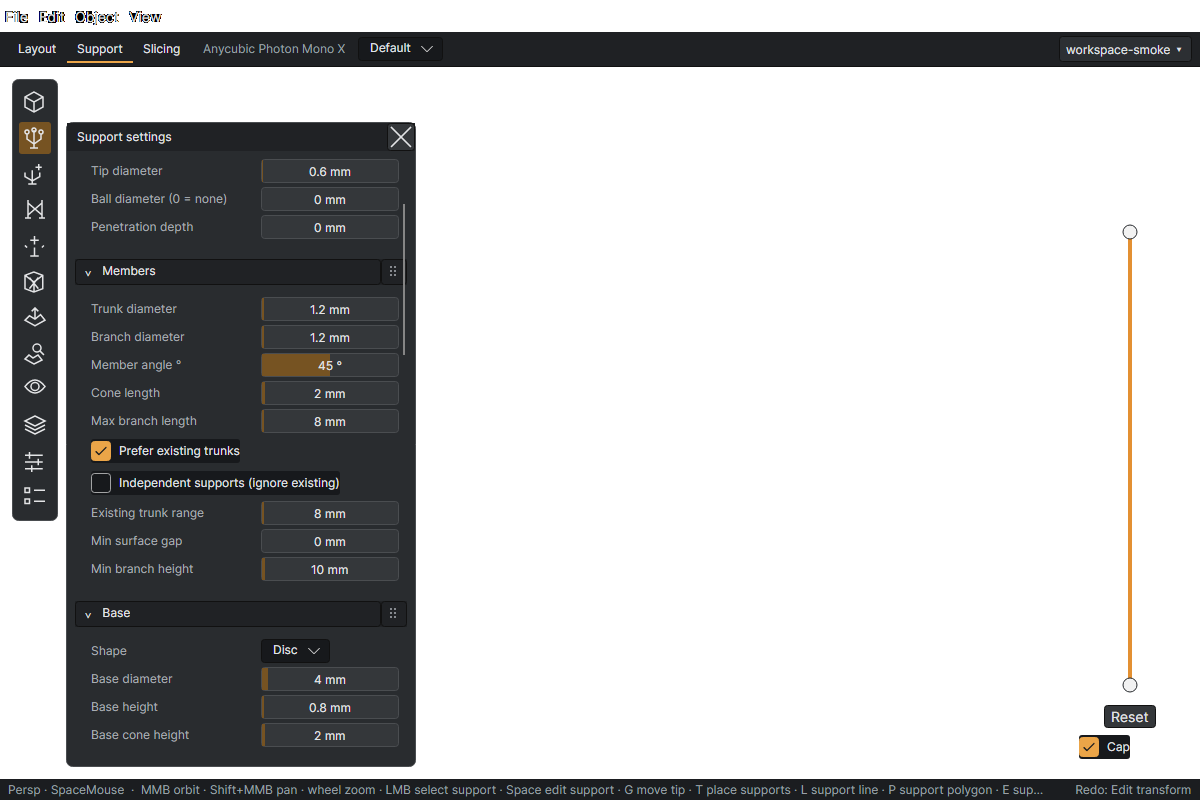
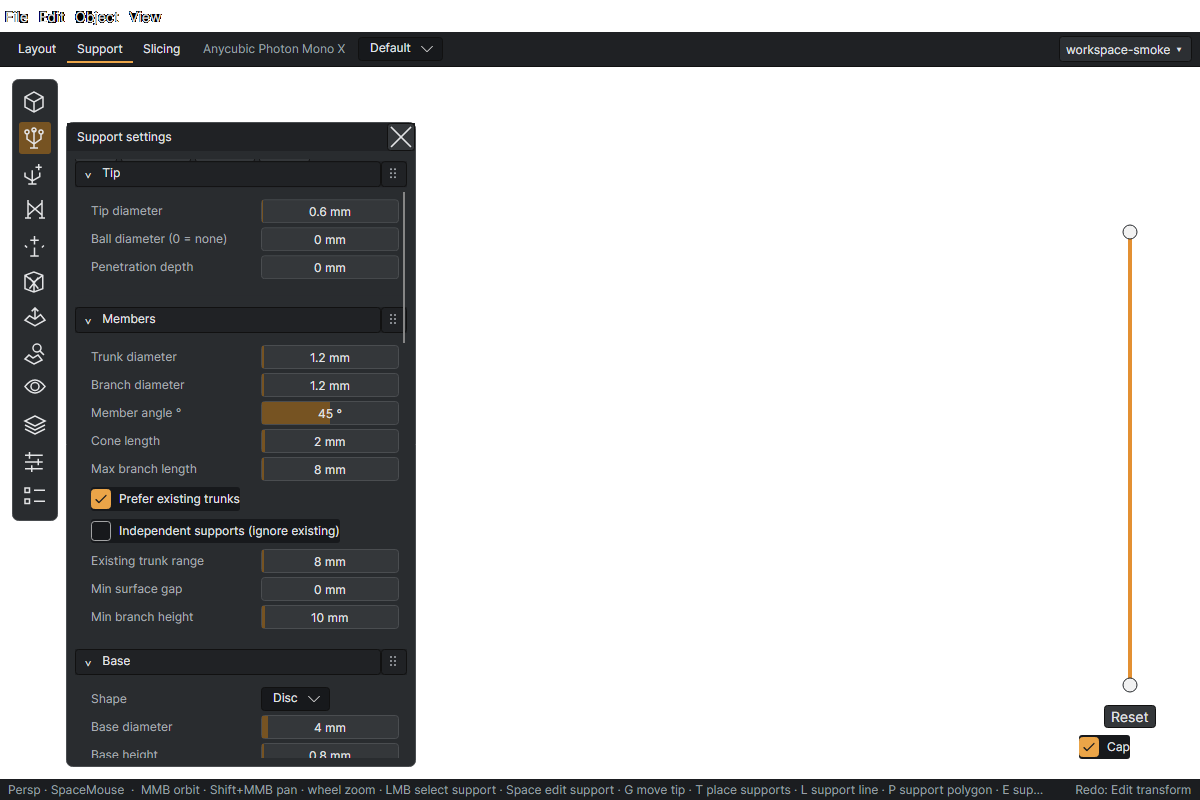
feat(ui): swap expanders immediately during drag

Changed region(s): [[0.0617, 0.1875, 0.3392, 0.9688], [0.0617, 0.1875, 0.185, 0.3438]]

diff --git a/src/Danslicer.App/Controls/Refresh/ToolShells.cs b/src/Danslicer.App/Controls/Refresh/ToolShells.cs
@@ -143,6 +143,7 @@ public sealed class ReorderableExpander : Border
     public string SectionId { get; }
     public event EventHandler? ExpansionChanged;
     public event EventHandler<int>? MoveRequested;
+    public event EventHandler? OrderCommitted;
     public bool IsExpanded
     {
         get => _expanded;
@@ -160,59 +161,92 @@ public sealed class ReorderableExpander : Border
         var grip = new Button { Content = RefreshIcons.Create("grip"), Width = 26, Height = 26, MinHeight = 0, Padding = new Thickness(4), Background = RefreshPalette.Header, Cursor = new Cursor(StandardCursorType.SizeAll) };
         AutomationProperties.SetName(grip, $"Reorder {title}"); ToolTip.SetTip(grip, "Drag to reorder; Alt+Up/Down");
         double? origin = null;
+        double originalTop = 0, lastPointerY = 0;
+        int originalIndex = -1;
         var translation = new TranslateTransform(); RenderTransform = translation;
         IPointer? dragPointer = null;
-        bool dragging = false;
+        bool dragging = false, moving = false;
         void Settle()
         {
             translation.Transitions = new Transitions { new DoubleTransition { Property = TranslateTransform.YProperty, Duration = TimeSpan.FromMilliseconds(150) } };
             translation.Y = 0; ZIndex = 0;
         }
+        void Move(int offset, double visualY)
+        {
+            if (offset == 0 || Parent is not Panel panel) return;
+            // Hosts remove/reinsert the real section. Ignore transient capture loss during reparenting.
+            moving = true;
+            try
+            {
+                MoveRequested?.Invoke(this, offset);
+                panel.UpdateLayout();
+                translation.Y = visualY - Bounds.Y;
+                grip.Focus();
+                dragPointer?.Capture(grip);
+            }
+            finally { moving = false; }
+        }
         void CancelDrag()
         {
+            var visualY = Bounds.Y + translation.Y;
+            if (dragging && Parent is Panel panel) Move(originalIndex - panel.Children.IndexOf(this), visualY);
             origin = null; dragging = false;
             var pointer = dragPointer; dragPointer = null; pointer?.Capture(null); Settle();
         }
+        void UpdateDrag(double pointerY)
+        {
+            if (origin is not { } start) return;
+            var delta = pointerY - start;
+            if (!dragging && Math.Abs(delta) < 6) return;
+            var direction = Math.Sign(pointerY - lastPointerY);
+            lastPointerY = pointerY;
+            dragging = true; ZIndex = 10;
+            var visualY = originalTop + delta;
+            translation.Y = visualY - Bounds.Y;
+            if (Parent is not Panel panel || direction == 0) return;
+            var index = panel.Children.IndexOf(this);
+            var center = visualY + Bounds.Height / 2;
+            var destination = index;
+            for (var i = index + direction; i >= 0 && i < panel.Children.Count; i += direction)
+            {
+                if (panel.Children[i] is not ReorderableExpander) break;
+                if (direction > 0 ? center <= panel.Children[i].Bounds.Center.Y : center >= panel.Children[i].Bounds.Center.Y) break;
+                destination = i;
+            }
+            Move(destination - index, visualY);
+        }
         grip.AddHandler(PointerPressedEvent, (_, e) =>
         {
-            if (!e.GetCurrentPoint(grip).Properties.IsLeftButtonPressed) return;
+            if (!e.GetCurrentPoint(grip).Properties.IsLeftButtonPressed || Parent is not Panel panel) return;
             grip.Focus(); translation.Transitions = null; translation.Y = 0;
-            origin = e.GetPosition(TopLevel.GetTopLevel(this)).Y; dragPointer = e.Pointer;
+            originalTop = Bounds.Y; originalIndex = panel.Children.IndexOf(this);
+            origin = lastPointerY = e.GetPosition(TopLevel.GetTopLevel(this)).Y; dragPointer = e.Pointer;
             e.Pointer.Capture(grip); e.Handled = true;
         }, Avalonia.Interactivity.RoutingStrategies.Tunnel);
         grip.PointerMoved += (_, e) =>
         {
-            if (origin is not { } start) return;
-            var delta = e.GetPosition(TopLevel.GetTopLevel(this)).Y - start;
-            if (!dragging && Math.Abs(delta) < 6) return;
-            dragging = true; ZIndex = 10; translation.Y = delta; e.Handled = true;
+            if (origin is null) return;
+            UpdateDrag(e.GetPosition(TopLevel.GetTopLevel(this)).Y); e.Handled = true;
         };
         grip.AddHandler(PointerReleasedEvent, (_, e) =>
         {
-            if (origin is not { } start) return;
-            var delta = e.GetPosition(TopLevel.GetTopLevel(this)).Y - start;
+            if (origin is null) return;
+            UpdateDrag(e.GetPosition(TopLevel.GetTopLevel(this)).Y);
+            var changed = dragging && Parent is Panel panel && panel.Children.IndexOf(this) != originalIndex;
             origin = null; dragPointer = null; e.Pointer.Capture(null);
-            if (dragging && Parent is Panel panel)
-            {
-                var index = panel.Children.IndexOf(this);
-                var center = Bounds.Center.Y + delta;
-                var destination = index;
-                for (var i = 0; i < panel.Children.Count; i++)
-                    if (i != index && (delta > 0 ? i > index && center > panel.Children[i].Bounds.Center.Y : i < index && center < panel.Children[i].Bounds.Center.Y))
-                        destination = delta > 0 ? Math.Max(destination, i) : Math.Min(destination, i);
-                var visualY = Bounds.Y + translation.Y;
-                if (destination != index) MoveRequested?.Invoke(this, destination - index);
-                panel.UpdateLayout(); translation.Y = visualY - Bounds.Y;
-            }
             dragging = false; Settle();
+            if (changed) OrderCommitted?.Invoke(this, EventArgs.Empty);
             e.Handled = true;
         }, Avalonia.Interactivity.RoutingStrategies.Tunnel);
-        grip.PointerCaptureLost += (_, _) => { if (origin is not null) CancelDrag(); };
+        grip.PointerCaptureLost += (_, _) => { if (!moving && origin is not null) CancelDrag(); };
         grip.KeyDown += (_, e) =>
         {
             if (e.Key == Key.Escape && origin is not null) { CancelDrag(); e.Handled = true; }
-            else if (e.KeyModifiers.HasFlag(KeyModifiers.Alt) && e.Key is Key.Up or Key.Down)
-            { MoveRequested?.Invoke(this, e.Key == Key.Up ? -1 : 1); e.Handled = true; }
+            else if (origin is null && e.KeyModifiers.HasFlag(KeyModifiers.Alt) && e.Key is Key.Up or Key.Down)
+            {
+                MoveRequested?.Invoke(this, e.Key == Key.Up ? -1 : 1);
+                OrderCommitted?.Invoke(this, EventArgs.Empty); e.Handled = true;
+            }
         };
         header.Children.Add(_disclosure); Grid.SetColumn(grip, 1); header.Children.Add(grip);
         _body = new ContentControl { Margin = new Thickness(8) };

diff --git a/src/Danslicer.App/Views/UiPreviewWindow.cs b/src/Danslicer.App/Views/UiPreviewWindow.cs
@@ -84,7 +84,7 @@ public sealed class UiPreviewWindow : Window
         locks.Children.Add(Row("Disabled", disabled));
         locks.Children.Add(Row("Long descriptive parameter label", Field(12, -100, 100)));
         var help = Section("help", "Interaction guide");
-        help.Children.Add(new TextBlock { Text = "Drag 4 px to scrub. Shift adjusts at one tenth speed. Click or Enter to type (for example 1cm + 2mm). Enter commits; Escape cancels. Invalid/out-of-range input stays in the editor until corrected or cancelled. Arrow keys step. Each committed gesture adds one undo entry.\n\nDrag the round grip to move the entire section; release over its new position. Escape cancels. Alt+Up/Down reorders with the keyboard. Drag the popout's right edge to resize it.", TextWrapping = TextWrapping.Wrap, Foreground = RefreshPalette.Muted });
+        help.Children.Add(new TextBlock { Text = "Drag 4 px to scrub. Shift adjusts at one tenth speed. Click or Enter to type (for example 1cm + 2mm). Enter commits; Escape cancels. Invalid/out-of-range input stays in the editor until corrected or cancelled. Arrow keys step. Each committed gesture adds one undo entry.\n\nDrag the round grip to move the entire section. Sections swap as you cross a neighbour; release to keep the order. Escape restores the starting order. Alt+Up/Down reorders with the keyboard. Drag the popout's right edge to resize it.", TextWrapping = TextWrapping.Wrap, Foreground = RefreshPalette.Muted });
         _popout.Body = body;
         var footer = new Border { Background = RefreshPalette.Header, Padding = new Thickness(16, 10), Child = _status };
         Grid.SetRow(footer, 2); root.Children.Add(footer); Content = root;
@@ -109,7 +109,7 @@ public sealed class UiPreviewWindow : Window
                     await Task.Delay(250);
                     using var narrow = new RenderTargetBitmap(new PixelSize((int)root.Bounds.Width, (int)root.Bounds.Height));
                     narrow.Render(root); narrow.Save(System.IO.Path.Combine(captureDirectory, "preview-narrow.png"), PngBitmapEncoderOptions.Default);
-                    File.WriteAllText(System.IO.Path.Combine(captureDirectory, "capture-ok.txt"), "Native window opened. Routed pointer and keyboard checks passed: numeric commit/cancel/lock/expression/undo, whole-section drag/reorder/cancel/settle, popout width resize/clamp/cancel, expansion and dismissal. Rendered at 100/150/200% pixel density, plus narrow icon toolbar, mid-drag and wide popout. This is not a monitor DPI or physical pointer test.");
+                    File.WriteAllText(System.IO.Path.Combine(captureDirectory, "capture-ok.txt"), "Native window opened. Routed pointer and keyboard checks passed: numeric commit/cancel/lock/expression/undo, whole-section live swap/pointer anchoring/cancel/settle, popout width resize/clamp/cancel, expansion and dismissal. Rendered at 100/150/200% pixel density, plus narrow icon toolbar, mid-drag and wide popout. This is not a monitor DPI or physical pointer test.");
                 }
                 catch (Exception ex) { Environment.ExitCode = 1; File.WriteAllText(System.IO.Path.Combine(captureDirectory, "capture-error.txt"), ex.ToString()); }
                 finally { Close(); }
@@ -163,15 +163,17 @@ public sealed class UiPreviewWindow : Window
         _sections.UpdateLayout();
         position = grip.TranslatePoint(new Point(12, 12), this)!.Value;
         var dragDistance = _sections.Children[1].Bounds.Center.Y - section.Bounds.Center.Y + 10;
+        var originalSectionTop = section.Bounds.Y;
         grip.RaiseEvent(new PointerPressedEventArgs(grip, pointer, this, position, 5, pressed, KeyModifiers.None, 1));
         grip.RaiseEvent(new PointerEventArgs(InputElement.PointerMovedEvent, grip, pointer, this, position + new Vector(0, dragDistance), 6, pressed, KeyModifiers.None));
-        Require(((TranslateTransform)section.RenderTransform!).Y == dragDistance && section.IsExpanded, "Expanded section must follow pointer with its content");
+        Require(_sections.Children[1] == section && Math.Abs(section.Bounds.Y + ((TranslateTransform)section.RenderTransform!).Y - originalSectionTop - dragDistance) < 0.01 && section.IsExpanded, "Section must swap before release and remain anchored to pointer");
         Capture("preview-drag.png");
         grip.RaiseEvent(new PointerReleasedEventArgs(grip, pointer, this, position + new Vector(0, dragDistance), 7, new PointerPointProperties(RawInputModifiers.None, PointerUpdateKind.LeftButtonReleased), KeyModifiers.None, MouseButton.Left));
         Require(_sections.Children[1] == section && pointer.Captured is null, "Pointer reorder must insert at drop position");
         Key(grip, Avalonia.Input.Key.Up, KeyModifiers.Alt); _sections.UpdateLayout();
         grip.RaiseEvent(new PointerPressedEventArgs(grip, pointer, this, position, 8, pressed, KeyModifiers.None, 1));
-        grip.RaiseEvent(new PointerEventArgs(InputElement.PointerMovedEvent, grip, pointer, this, position + new Vector(0, 30), 9, pressed, KeyModifiers.None));
+        grip.RaiseEvent(new PointerEventArgs(InputElement.PointerMovedEvent, grip, pointer, this, position + new Vector(0, dragDistance), 9, pressed, KeyModifiers.None));
+        Require(_sections.Children[1] == section, "Cancel test must start with a live swap");
         Key(grip, Avalonia.Input.Key.Escape);
         Require(_sections.Children[0] == section && pointer.Captured is null && _popout.IsVisible, "Escape must cancel reorder without closing popout");
         await Task.Delay(200);

diff --git a/src/Danslicer.App/Views/MainWindow.SettingsCapture.cs b/src/Danslicer.App/Views/MainWindow.SettingsCapture.cs
@@ -78,6 +78,30 @@ public partial class MainWindow
         tip.BringIntoView(); await Layout();
         var supportSection = SupportsToolPopup.GetLogicalDescendants().OfType<ReorderableExpander>().First();
         var grip = supportSection.GetVisualDescendants().OfType<Button>().Single(b => (AutomationProperties.GetName(b) ?? "").StartsWith("Reorder "));
+        var sectionPanel = (Panel)supportSection.Parent!;
+        var orderBeforeDrag = File.ReadAllText(AppConfig.WorkspacePath);
+        point = grip.TranslatePoint(new Point(12, 12), this)!.Value;
+        var swapDistance = sectionPanel.Children[1].Bounds.Center.Y - supportSection.Bounds.Center.Y + 10;
+        void StartSwap()
+        {
+            grip.RaiseEvent(new PointerPressedEventArgs(grip, pointer, this, point, 20, pressed, KeyModifiers.None, 1));
+            grip.RaiseEvent(new PointerEventArgs(PointerMovedEvent, grip, pointer, this, point + new Vector(0, swapDistance), 21, pressed, KeyModifiers.None));
+            Require(sectionPanel.Children[1] == supportSection, "Production section must swap during drag");
+            Require(File.ReadAllText(AppConfig.WorkspacePath) == orderBeforeDrag, "Live swap must not persist before drop");
+        }
+        StartSwap();
+        // Moving back across the neighbour restores its slot without ending the gesture.
+        grip.RaiseEvent(new PointerEventArgs(PointerMovedEvent, grip, pointer, this, point - new Vector(0, 10), 22, pressed, KeyModifiers.None));
+        Require(sectionPanel.Children[0] == supportSection && pointer.Captured == grip, "Live reverse swap lost position/capture");
+        Key(grip, Avalonia.Input.Key.Escape);
+        StartSwap(); pointer.Capture(null);
+        Require(sectionPanel.Children[0] == supportSection && File.ReadAllText(AppConfig.WorkspacePath) == orderBeforeDrag, "Capture loss must restore original order without saving");
+        StartSwap(); Key(grip, Avalonia.Input.Key.Escape);
+        Require(sectionPanel.Children[0] == supportSection && File.ReadAllText(AppConfig.WorkspacePath) == orderBeforeDrag, "Escape must restore original order without saving");
+        StartSwap();
+        grip.RaiseEvent(new PointerReleasedEventArgs(grip, pointer, this, point + new Vector(0, swapDistance), 23, new PointerPointProperties(RawInputModifiers.None, PointerUpdateKind.LeftButtonReleased), KeyModifiers.None, MouseButton.Left));
+        Require(sectionPanel.Children[1] == supportSection && File.ReadAllText(AppConfig.WorkspacePath) != orderBeforeDrag, "Drop must persist final order");
+        Key(grip, Avalonia.Input.Key.Up, KeyModifiers.Alt);
         Key(grip, Avalonia.Input.Key.Down, KeyModifiers.Alt); supportSection.IsExpanded = false;
         var resize = SupportsToolPopup.GetVisualDescendants().OfType<Border>().Single(b => AutomationProperties.GetName(b) == "Resize popout width");
         Key(resize, Avalonia.Input.Key.Right);

diff --git a/src/Danslicer.App/Views/MainWindow.Preferences.cs b/src/Danslicer.App/Views/MainWindow.Preferences.cs
@@ -50,8 +50,8 @@ public partial class MainWindow
                         _workspacePreferences.Expanded[key] = section.IsExpanded;
                         SaveWorkspacePreferences();
                     };
-                    // Registered after the existing move handler, so this records the completed move.
-                    section.MoveRequested += (_, _) =>
+                    // Live swaps are transient until drop; cancellation must not write the preview order.
+                    section.OrderCommitted += (_, _) =>
                     {
                         _workspacePreferences.SectionOrder[group] = panel.Children.OfType<ReorderableExpander>().Select(s => s.SectionId).ToList();
                         SaveWorkspacePreferences();

diff --git a/docs/ui-refresh/task-03.md b/docs/ui-refresh/task-03.md
@@ -27,3 +27,11 @@ Next: commit source/evidence and final handoff. Task 04 owns renderer/plate/refl
 ## Final checkpoint
 Same absolute worktree and branch. Last good implementation/evidence dfc760f; final descendant also changes AppConfig to thread-safe Lazy initialization before normal startup or isolated tests. Final 181 focused tests and native main capture passed again after that change. Source, native evidence and final documentation committed; exact handoff hash in final response. See RESUME for launch, limits and exact next action.
 Focused tests: `dotnet test tests/Danslicer.Tests -c Release --no-restore -p:UsedAvaloniaProducts= --filter 'FullyQualifiedName~Workspace|FullyQualifiedName~UiRefreshNumeric|FullyQualifiedName~Expression|FullyQualifiedName~ConfigViewModel|FullyQualifiedName~UserConfig|FullyQualifiedName~LayerRange|FullyQualifiedName~IsolationHeight|FullyQualifiedName~ClipCap|FullyQualifiedName~ViewportToolbar|FullyQualifiedName~WindowKeymap|FullyQualifiedName~ModeScoped|FullyQualifiedName~ObjectCommandScope|FullyQualifiedName~ProjectFile|FullyQualifiedName~NewProject|FullyQualifiedName~SliceCommand|FullyQualifiedName~ObjectPosition|FullyQualifiedName~UndoStack' --nologo`.
+
+## User refinement — swap while dragging
+Worktree C:/Users/plane/.codex/worktrees/3321/Danslicer-chatgpt, branch codex/ui-refresh-03, clean base 97eedfc404614494e0fea4cab382b6b4ff2c3459.
+User requested immediate swapping when a viable expander target is reached. Plan: swap on neighbour midpoint crossing during movement, maintain pointer anchoring across layout changes, restore initial order on Escape/capture loss, persist only on drop (keyboard moves remain immediate). Verify native live swap, reversal/cancel, settle and persistence. Next: implement and run native checks.
+
+### Live swap — verified
+Same worktree/branch; last good prior handoff 97eedfc404614494e0fea4cab382b6b4ff2c3459. Neighbour midpoint crossing now swaps the real expanded sections during pointer movement; fast movement can cross multiple sections. Layout compensation keeps the dragged section anchored, and the existing 150ms release settling remains. Escape and capture loss restore initial order; live reversal works. OrderCommitted now separates durable drop/keyboard changes from transient MoveRequested swaps. No provisional order is saved.
+Changed ToolShells.cs, MainWindow.Preferences.cs, native MainWindow.SettingsCapture.cs and UiPreviewWindow.cs, docs/evidence. Release app build passed (existing warnings). Native preview and full native main smoke exited 0, with new checks for pre-release swap, pointer anchoring, reversal, Escape/capture-loss restoration and unchanged preference file until drop. Reviewed preview-drag.png in evidence/task-03-live-swap. Physical pointer/DPI/GL limits unchanged. Existing 181 unit-test result is historical; no unit rerun for this routed UI change. Next: user review in this same main app; task-04 boundaries unchanged. Final commit hash is in response.

diff --git a/docs/ui-refresh/SPEC.md b/docs/ui-refresh/SPEC.md
@@ -28,3 +28,5 @@ Latest screenshot correction: the Support isolation slider sits below the view c
 Workspace UI preferences live in workspace-ui.json beside the existing user config. Persist toolbar labels, completed popout widths, section order/expansion and ten recent project paths. Missing/corrupt data uses defaults; stale/duplicate section IDs are filtered and new sections appended. Newer schema versions are read-only; unknown JSON members round-trip. Workspace saves do not rewrite unrelated printer/resin/keymap configuration. Existing offline recent paths remain available and use the normal failed-open status handling.
 Production bounded support/raft fields use existing limits and setters with centered in-field units; integer fields normalize on commit. Transform/print/region/placement scrub fields use the existing NumericField validation and model callback, once per committed edit. Preserve existing undo where present: transforms have one document undo per gesture; support configuration retains its existing immediate-save behavior without document undo. Visibility retains its actual modes and switches; do not invent numeric opacity or new raft parameters. No field locks without explicit semantics.
 Main capture and unit-test VMs use isolated temporary configuration. The Support rail keeps its 300ms gap grace, shared ViewCube.Rect plus 12-DIP clearance, centered Reset and saved two-state Cap choice.
+
+Latest approved expander behavior: swap immediately during dragging when the dragged section crosses a neighbouring section midpoint, keeping the complete expanded content under the pointer. Allow swapping back on reversal. Escape/capture loss restores initial order; persist only completed drop or keyboard reorder. Preserve 150ms release settling and round grippers. This supersedes historical drop-only reordering notes.

diff --git a/docs/ui-refresh/RESUME.md b/docs/ui-refresh/RESUME.md
@@ -29,3 +29,6 @@ Focused test filter and iteration history are in task-03.md.
 
 ## Exact next action / task 04
 User follows up here. No further task was created and no main merge performed. For task 04, start a separate isolated worktree from this exact final handoff HEAD, read START/SPEC/TASKS/RESUME and task-01/02/03. Audit committed renderer overlap before editing; do not touch F:/Git Repos/Danslicer, prior worktrees or routing prototype, or absorb uncommitted changes. Task 04 owns modelled plate, subtle reflections, transparency and selection through from below, AO/cavity audit, and only a confirmed outward bevel correction. Preserve task-03 numeric/persistence contracts, the Support rail, all status content, modes and keymaps. Obtain actual above/below GL evidence; these offscreen captures cannot verify renderer work.
+
+## Latest user refinement — live expander swapping
+Approved after the task-03 handoff at 97eedfc404614494e0fea4cab382b6b4ff2c3459. Same worktree C:/Users/plane/.codex/worktrees/3321/Danslicer-chatgpt and branch codex/ui-refresh-03; current HEAD is the new handoff. Expanders swap immediately when the dragged section crosses a neighbour midpoint, retaining pointer anchoring through layout changes. Reverse dragging swaps back; Escape/capture loss restores starting order. Only release (or a keyboard reorder) persists order; existing 150ms settling remains. New OrderCommitted event is the persistence boundary, MoveRequested also carries transient swaps. Native preview and full main smoke passed these cases, including on-disk preference checks. Release build passed; drag screenshot reviewed. Earlier physical DPI/input/GL limits remain. Exact commit in final response; next action is user review, with task 04 still owning rendering only.
